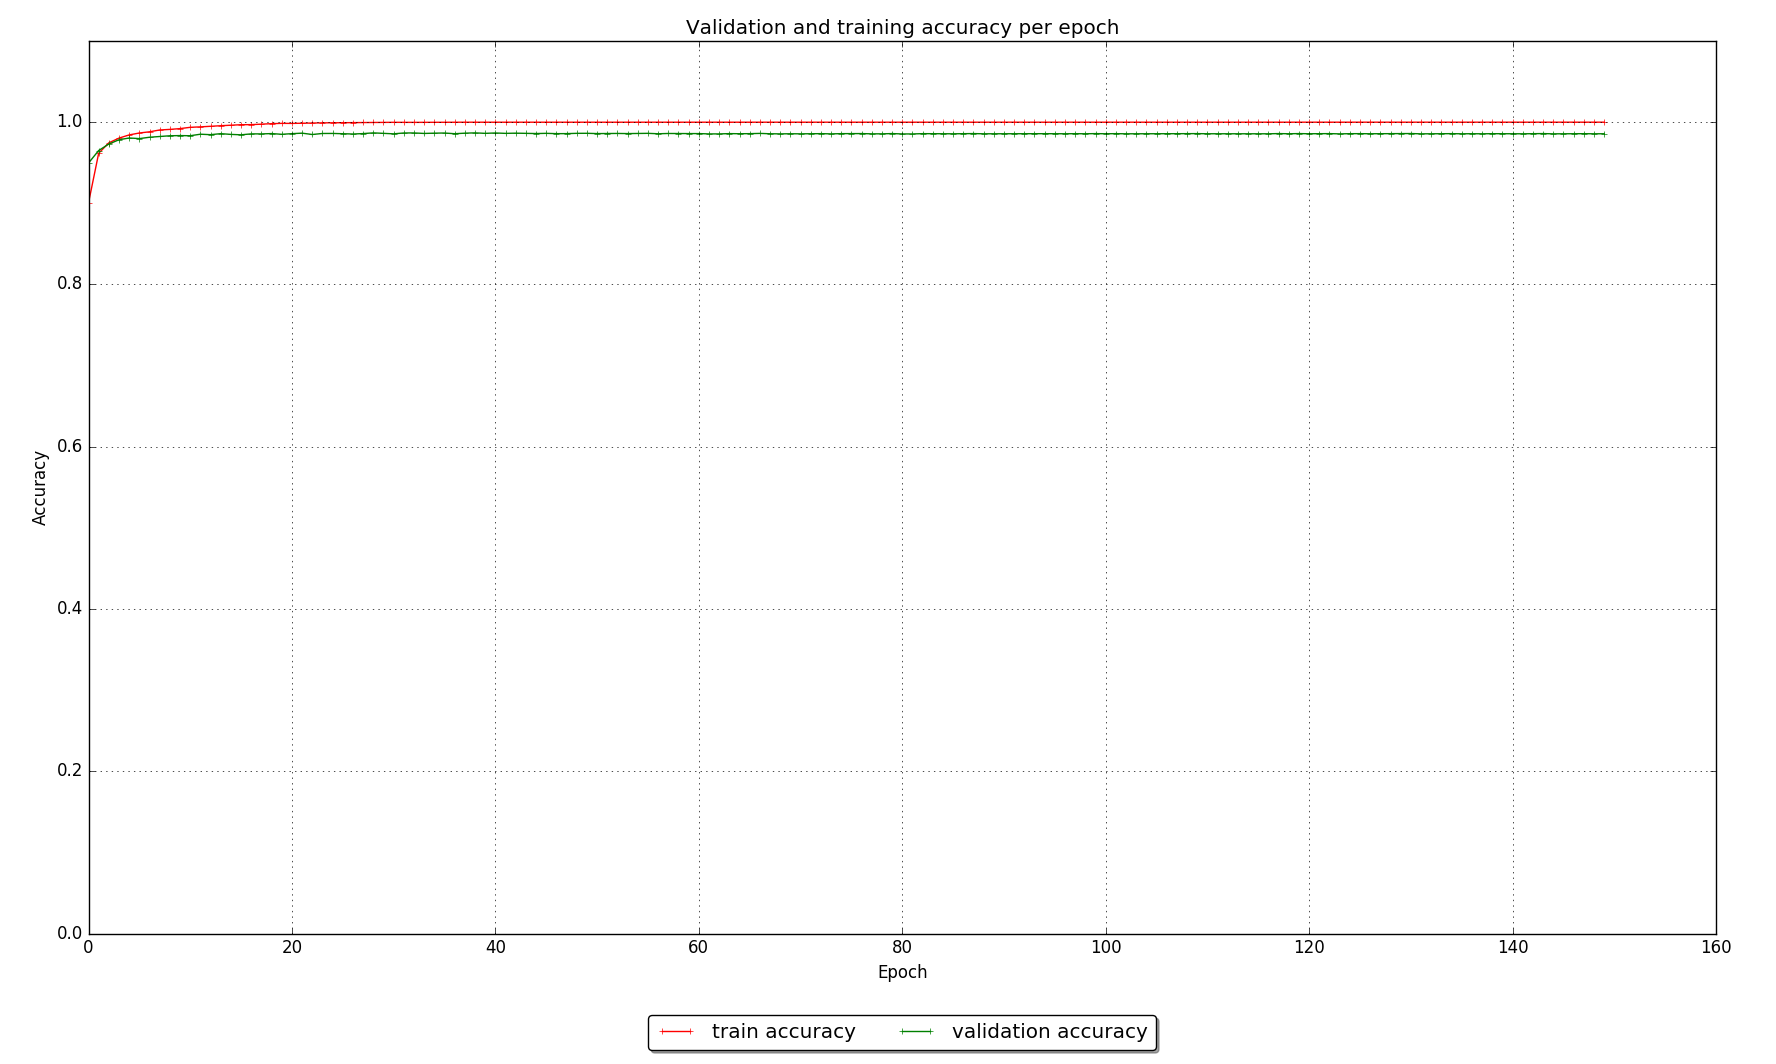
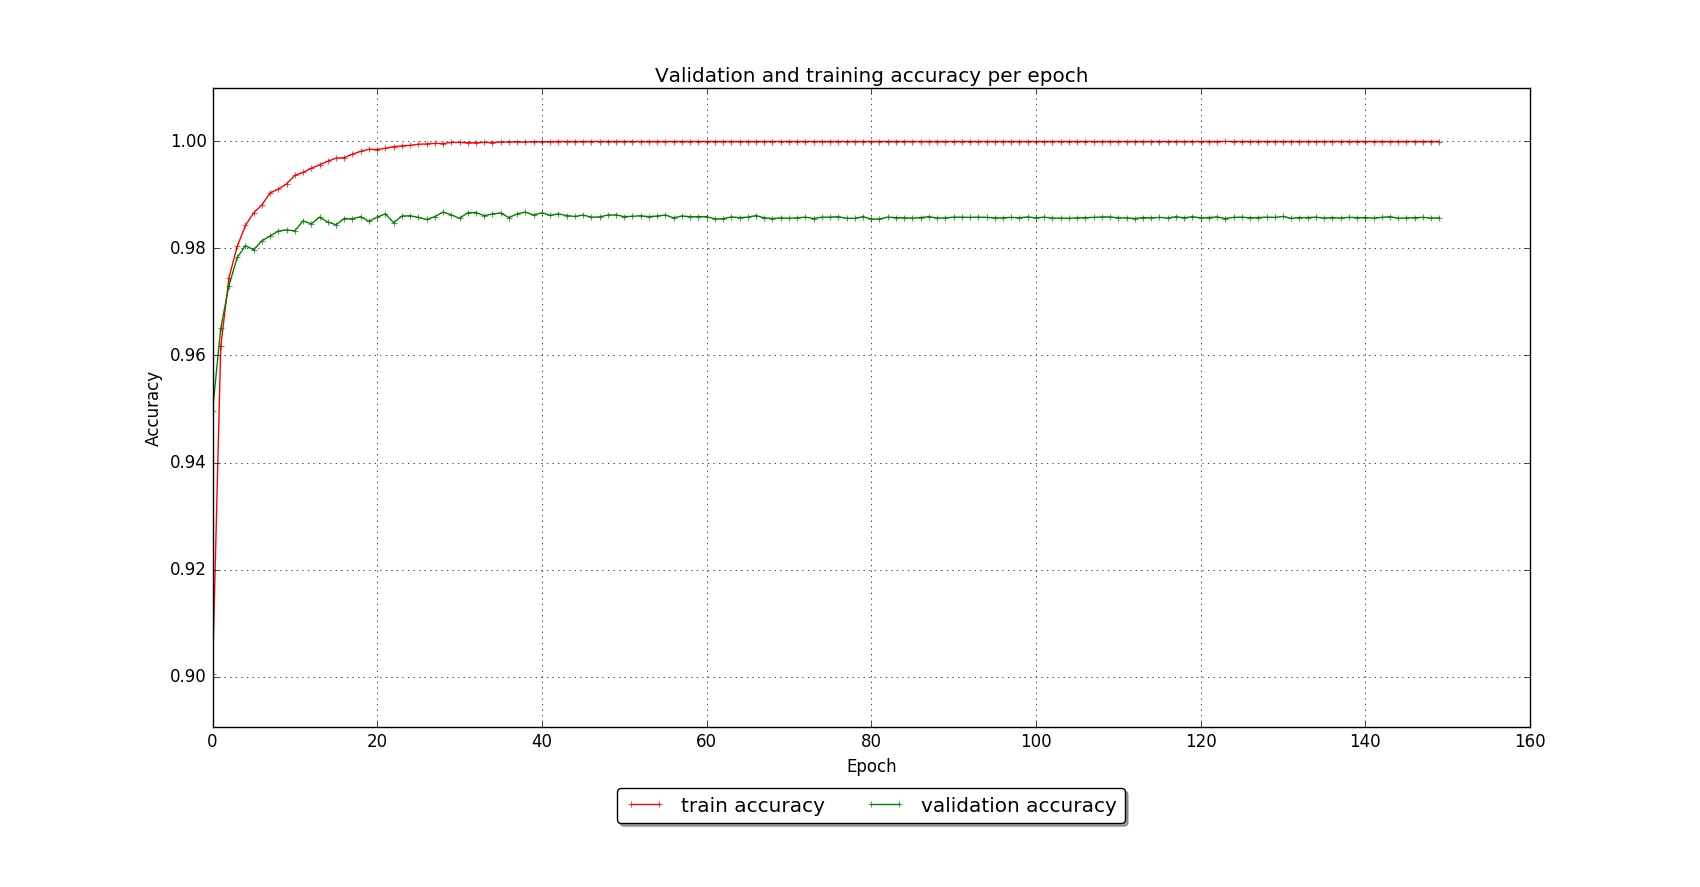
update report and plot function, add result for 0.7 test split

diff --git a/SEE_BachHa_MinhNguyen_111216_MNIST.tex b/SEE_BachHa_MinhNguyen_111216_MNIST.tex
@@ -185,7 +185,7 @@
             \label{fig:weights}
         \end{center}
     \end{figure}
-	Looking at the weights visualization, it can be seen that some of them resemble kernels, which are used in computer vision. In this case edge detecting kernels are the easiest to see.
+    Looking at the weights visualization, it can be seen that some of them resemble kernels, which are used in computer vision. In this case edge detecting kernels are the easiest to see.
 
     \begin{figure}[H]
         \begin{center}
@@ -194,22 +194,30 @@
             \label{fig:train}
         \end{center}
     \end{figure}
-	
-	\begin{itemize}
-		\item With the split ratio of 0.33 for the test set, the performance is good.
-		\item After the first epoch, the accuracy reaches over 0.95.
-		\item The network converge somewhere around epoch number 25 with the accuracy of 0.986
-		\item There seems to be no overfitting at all, even after 150 epochs.
-	\end{itemize}
-	
+    \begin{itemize}
+        \item With the split ratio of 0.33 for the test set, the performance is good.
+        \item After the first epoch, the accuracy reaches over 0.95.
+        \item The network converge somewhere around epoch number 25 with the accuracy of 0.986
+        \item There seems to be no overfitting at all, even after 150 epochs.
+    \end{itemize}
+
+    The training is then rerun with 0.7 ratio for the test set for 100 epochs:
+    \begin{figure}[H]
+        \begin{center}
+            \includegraphics[width=1.0\linewidth]{images/mnist_training_log_more_test.png}
+            \caption{Accuracy per epoch}
+            \label{fig:train_more_test}
+        \end{center}
+    \end{figure}
+
 
 \section{Results}
-    Test score: $0.0852$ \\
-    Test accuracy: $0.986$ \\
-    Confusion matrix: \\
-    The row represents the true value, the column represents the predicted value.\\
-    From the top left corner, each rows and column represent the label from 0 to 9.
-    \[ \left[ \begin{array}{cccccccccc}
+    When trained with 0.33 of the data used for testing:
+    \begin{itemize}
+        \item Test score: $0.0852$
+        \item Test accuracy: $0.986$
+        \item Confusion matrix: The row represents the true value, the column represents the predicted value. From the top left corner, each rows and column represent the label from 0 to 9.
+        \[ \left[ \begin{array}{cccccccccc}
         2236 &    0 &    4 &    0 &    1 &    3 &    2 &    2 &    5 &    3 \\
            0 & 2553 &    7 &    1 &    2 &    1 &    0 &    4 &    2 &    1 \\
            4 &    3 & 2239 &    6 &    6 &    0 &    1 &   17 &    5 &    2 \\
@@ -220,14 +228,37 @@
            1 &    3 &    6 &    2 &    3 &    2 &    0 & 2391 &    1 &    5 \\
            3 &    4 &    5 &    6 &    4 &    9 &    3 &    1 & 2213 &    7 \\
            3 &    1 &    0 &    3 &   14 &    1 &    0 &   10 &   11 & 2210 \\
-    \end{array} \right] \]
-    
-    \begin{itemize}
-    	\item The most mislabeled case is 3 being label as 5 with 29 misclassification.
-    	\item 9 being classified as 4, 2 as 7, 9 as 7, 4 as 9 are also some bad cases.
-    	\item The interesting case is that 9 was never classified as 6 and vice-versa, this can be concluded that the classifier only tolerate a small amount of change in orientation.
+        \end{array} \right] \]
+        \item Comments:
+        \begin{itemize}
+            \item The most mislabeled case is 3 being label as 5 with 29 misclassification.
+            \item 9 being classified as 4, 2 as 7, 9 as 7, 4 as 9 are also some bad cases.
+            \item The interesting case is that 9 was never classified as 6 and vice-versa, this can be concluded that the classifier only tolerate a small amount of change in orientation.
+        \end{itemize}
     \end{itemize}
 
+    When trained with 0.7 of data used for testing:
+    \begin{itemize}
+        \item Test score: $0.1074$
+        \item Test accuracy: $0.9820$
+        \item Confusion matrix: The row represents the true value, the column represents the predicted value. From the top left corner, each rows and column represent the label from 0 to 9.
+        \[ \left[ \begin{array}{cccccccccc}
+        4784 &    1 &    8 &    0 &    3 &    5 &   19 &    2 &    8 &    6 \\
+           4 & 5476 &   12 &    2 &    5 &    1 &    8 &   12 &    3 &    0 \\
+           7 &   16 & 4726 &   18 &   17 &    0 &   11 &   40 &   16 &    4 \\
+          10 &    4 &   16 & 4887 &    0 &   25 &    1 &   17 &   21 &   17 \\
+           3 &   11 &    4 &    0 & 4704 &    0 &    7 &   11 &    3 &   26 \\
+          13 &    6 &    2 &   22 &    3 & 4360 &   23 &    0 &   14 &    5 \\
+          16 &    5 &    1 &    0 &   15 &   10 & 4786 &    0 &   13 &    0 \\
+           6 &    9 &   24 &    3 &   10 &    3 &    0 & 5010 &    2 &   20 \\
+          14 &   14 &   14 &   19 &   17 &   18 &    7 &    4 & 4668 &   11 \\
+          13 &   11 &    1 &   28 &   27 &    9 &    2 &   26 &   23 & 4712 \\
+        \end{array} \right] \]
+        \item Comments:
+        \begin{itemize}
+            \item
+        \end{itemize}
+    \end{itemize}
 
 \section{Code}
 \begin{lstlisting}

diff --git a/python/mnist/plot_epochs.py b/python/mnist/plot_epochs.py
@@ -5,7 +5,7 @@ from matplotlib import pyplot as plt
 
 
 def main(train_log_file):
-    train_info = np.genfromtxt(train_log_file, delimiter=',')
+    train_info = np.genfromtxt(train_log_file, delimiter=',', skip_header=1)
     plt.figure(figsize=(10, 7))
     ax = plt.subplot(111)
     acc_line, = plt.plot(train_info[:, 0], train_info[:, 1], '-r+',
@@ -23,7 +23,12 @@ def main(train_log_file):
     plt.title('Validation and training accuracy per epoch')
     plt.ylabel('Accuracy')
     plt.xlabel('Epoch')
-    ax.set_ylim([0.0, 1.1])
+
+    min_y = np.min(np.min(train_info[:, 1]), np.min(train_info[:, 3]))
+    max_y = np.max(np.max(train_info[:, 1]), np.max(train_info[:, 3]))
+    range_y = max_y - min_y
+    ax.set_ylim([min_y - 0.1*range_y, max_y + 0.1*range_y])
+
     plt.grid()
     plt.show()
     return
